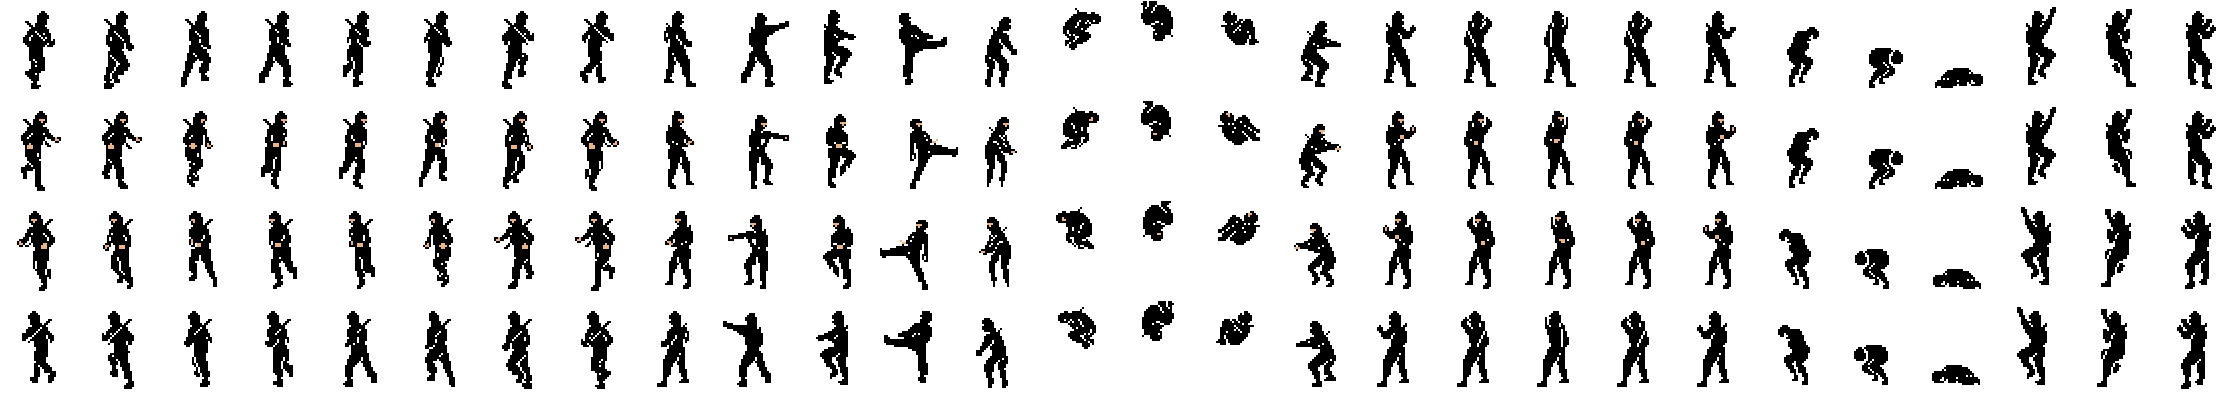
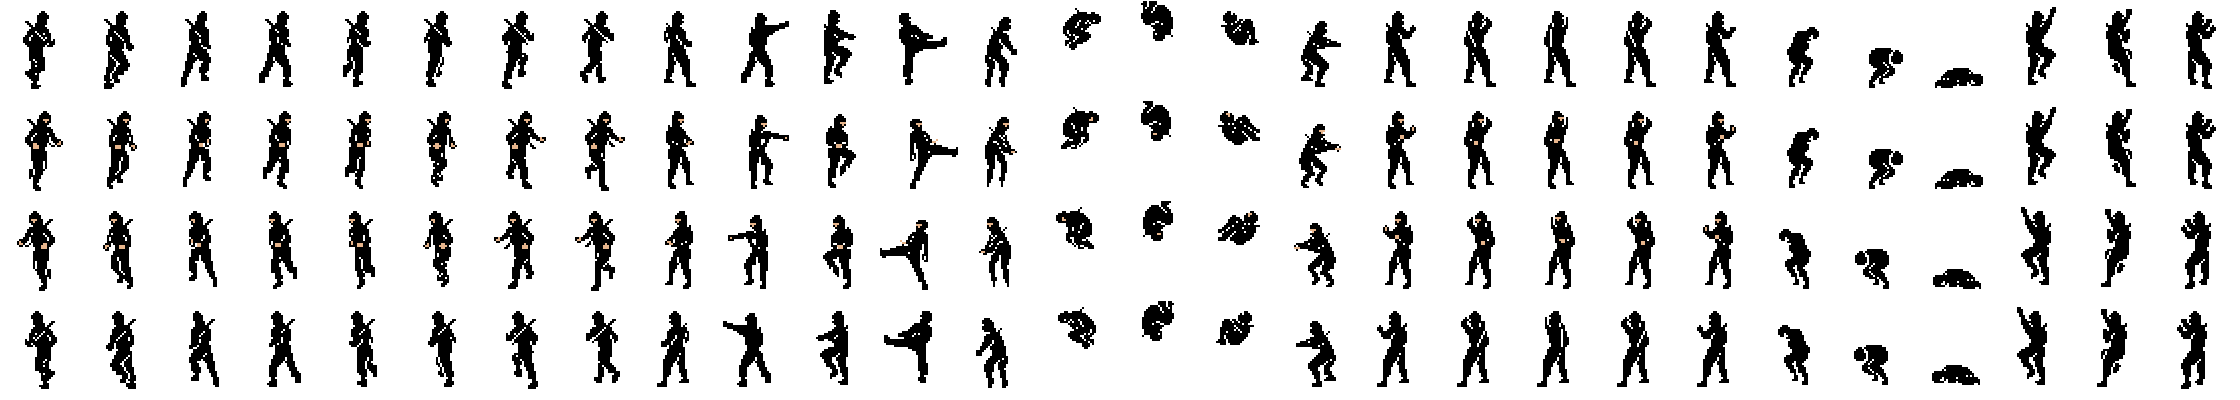
Fix to spritesheet

Changed region(s): [[0.0, 0.78, 0.2812, 0.96], [0.0, 0.27, 0.2812, 0.48]]

diff --git a/Game/menu.cpp b/Game/menu.cpp
@@ -10,15 +10,15 @@ void Menu::Begin()
 	menuItemColour = al_map_rgb( 220, 220, 220 );
 
 	ninjapos = new Vector2i( 0, 0 );
-	ninjaanim = new Animation( new SpriteSheet( "resources/ninja.png", 80, 100 ), true, 3 );
-	ninjaanim->AddFrame( 28 + 7 );
-	ninjaanim->AddFrame( 28 + 6 );
-	ninjaanim->AddFrame( 28 + 5 );
-	ninjaanim->AddFrame( 28 + 4 );
-	ninjaanim->AddFrame( 28 + 3 );
-	ninjaanim->AddFrame( 28 + 2 );
-	ninjaanim->AddFrame( 28 + 1 );
-	ninjaanim->AddFrame( 28 + 0 );
+	ninjaanim = new Animation( new SpriteSheet( "resources/ninja.png", 80, 100 ), true, 2);
+	ninjaanim->AddFrame( 56 + 0 );
+	ninjaanim->AddFrame( 56 + 1 );
+	ninjaanim->AddFrame( 56 + 2 );
+	ninjaanim->AddFrame( 56 + 3 );
+	ninjaanim->AddFrame( 56 + 4 );
+	ninjaanim->AddFrame( 56 + 5 );
+	ninjaanim->AddFrame( 56 + 6 );
+	ninjaanim->AddFrame( 56 + 7 );
 
 }
 

diff --git a/Framework/main.cpp b/Framework/main.cpp
@@ -7,7 +7,7 @@
 
 int main ( int argc, char* argv[] )
 {
-  Framework* fw = new Framework( 800, 480, 60, false );
+  Framework* fw = new Framework( 800, 480, 30, false );
   fw->Run();
   delete fw;
 
